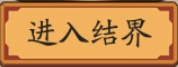
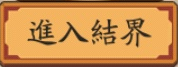
1. 降低判斷育成畫面的判斷閾值防止某些結界皮膚不同導致差異 2. 修改進入結界維亞服版本

diff --git a/tasks/KekkaiUtilize/script_task.py b/tasks/KekkaiUtilize/script_task.py
@@ -409,7 +409,7 @@ class ScriptTask(GameUi, ReplaceShikigami, KekkaiUtilizeAssets):
         while 1:
             self.screenshot()
             if self.appear(self.I_CHECK_FRIEND_REALM_1) \
-                    or self.appear(self.I_CHECK_FRIEND_REALM_3):
+                    or self.appear(self.I_CHECK_FRIEND_REALM_3,threshold=0.7):
                 logger.info('Appear enter friend realm button')
                 break
 
